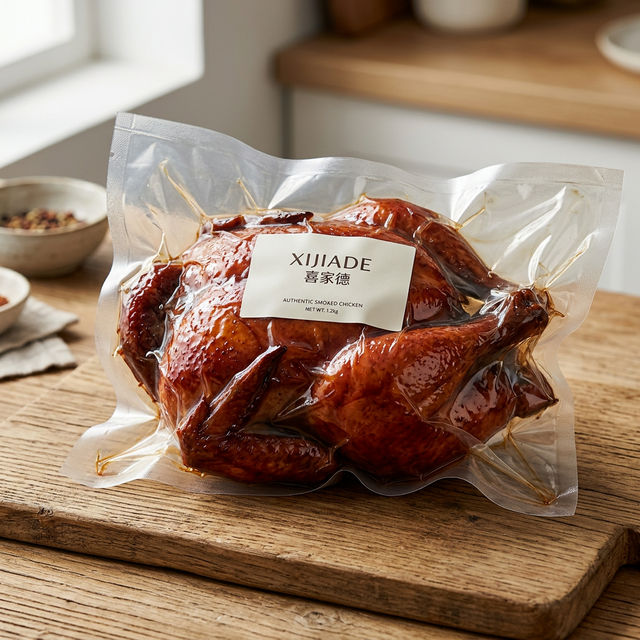
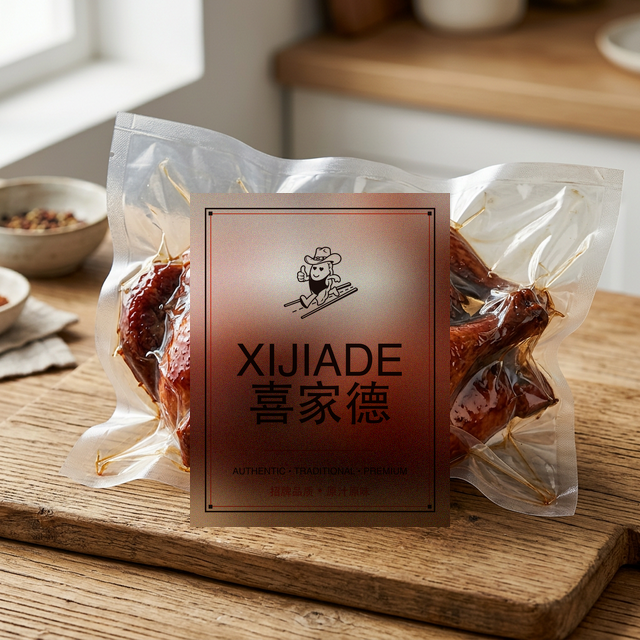
beef

Changed region(s): [[0.2812, 0.2812, 0.7188, 0.8438]]

diff --git a/index.html b/index.html
@@ -213,6 +213,24 @@
                         <span class="text-white text-xl font-bold uppercase tracking-widest" data-t="gallery-item-7">Signature Dipping Sauce</span>
                     </div>
                 </div>
+                <div class="group relative overflow-hidden rounded-xl aspect-[4/3] border-2 border-slate-900 shadow-lg">
+                    <img src="product_pig_trotters.png" class="w-full h-full object-cover transition-transform duration-700 group-hover:scale-110">
+                    <div class="absolute inset-0 bg-gradient-to-t from-black/80 via-transparent to-transparent opacity-0 group-hover:opacity-100 transition-opacity duration-500 flex items-end p-6">
+                        <span class="text-white text-xl font-bold uppercase tracking-widest" data-t="gallery-item-8">Braised Pig Trotters</span>
+                    </div>
+                </div>
+                <div class="group relative overflow-hidden rounded-xl aspect-[4/3] border-2 border-slate-900 shadow-lg">
+                    <img src="product_frozen_buns.png" class="w-full h-full object-cover transition-transform duration-700 group-hover:scale-110">
+                    <div class="absolute inset-0 bg-gradient-to-t from-black/80 via-transparent to-transparent opacity-0 group-hover:opacity-100 transition-opacity duration-500 flex items-end p-6">
+                        <span class="text-white text-xl font-bold uppercase tracking-widest" data-t="gallery-item-9">Frozen Steamed Buns</span>
+                    </div>
+                </div>
+                <div class="group relative overflow-hidden rounded-xl aspect-[4/3] border-2 border-slate-900 shadow-lg">
+                    <img src="product_dumpling_vinegar.png" class="w-full h-full object-cover transition-transform duration-700 group-hover:scale-110">
+                    <div class="absolute inset-0 bg-gradient-to-t from-black/80 via-transparent to-transparent opacity-0 group-hover:opacity-100 transition-opacity duration-500 flex items-end p-6">
+                        <span class="text-white text-xl font-bold uppercase tracking-widest" data-t="gallery-item-10">Dumpling Vinegar</span>
+                    </div>
+                </div>
             </div>
         </div>
     </section>
@@ -293,13 +311,16 @@
                 'item-3-desc': 'Earthy richness for the plant-inclined.',
                 'gallery-title': 'Braised & Preserved',
                 'gallery-desc': 'Our signature braised specialties and hand-crafted pickles, prepared with time-honored techniques.',
-                'gallery-item-1': 'Braised Chicken',
+                'gallery-item-1': 'Xijiade Braised Beef',
                 'gallery-item-2': 'Braised Chicken Feet',
                 'gallery-item-3': 'House Pickles',
-                'gallery-item-4': 'Braised Beef',
+                'gallery-item-4': 'Braised Chicken',
                 'gallery-item-5': 'Spicy Kimchi',
                 'gallery-item-6': 'Specialty Soy & Vinegar',
                 'gallery-item-7': 'Signature Dipping Sauce',
+                'gallery-item-8': 'Braised Pig Trotters',
+                'gallery-item-9': 'Frozen Steamed Buns',
+                'gallery-item-10': 'Dumpling Vinegar',
                 'footer-logo': 'XIJIADE',
                 'footer-inquiries': 'Inquiries',
                 'footer-copyright': '© 2026 XIJIADE',
@@ -345,13 +366,16 @@
                 'item-3-desc': '为素食者准备的大地芬芳，开盒即蒸。',
                 'gallery-title': '卤味 & 泡菜',
                 'gallery-desc': '我们的招牌卤味和手工腌制泡菜，采用传统技艺精心准备，是您餐桌的最佳伴侣。',
-                'gallery-item-1': '真空五香牛肉',
+                'gallery-item-1': '喜家德酱牛肉',
                 'gallery-item-2': '香卤鸡爪',
                 'gallery-item-3': '手工泡菜',
                 'gallery-item-4': '真空整鸡',
                 'gallery-item-5': '真空装韩式泡菜',
                 'gallery-item-6': '饺子酱油醋',
                 'gallery-item-7': '饺子蘸料',
+                'gallery-item-8': '卤猪蹄',
+                'gallery-item-9': '速冻鲜肉包',
+                'gallery-item-10': '饺子醋',
                 'footer-logo': '喜家德',
                 'footer-inquiries': '咨询',
                 'footer-copyright': '© 2026 喜家德.',

diff --git a/coord.html b/coord.html
@@ -1,0 +1,26 @@
+<!DOCTYPE html>
+<html>
+<body style="margin: 0; padding: 0;">
+    <img src="hero_packaged_braised_chicken.png" id="img1" style="width: 640px; height: 640px; display: block;" />
+    <img src="../.gemini/antigravity/brain/8ae195f2-8ec9-4a75-a237-2b6fd6c482f9/gallery_packaged_braised_beef_1773438036876.png" id="img2" style="width: 640px; height: 640px; display: block; margin-top: 20px;" />
+    
+    <div id="result" style="font-size: 30px; font-weight: bold; background: yellow; position: fixed; right: 20px; top: 20px; padding: 10px; border: 2px solid black;">
+        Click on the '嘉' character in both images.
+    </div>
+    
+    <script>
+        let clicks = [];
+        document.getElementById('img1').addEventListener('click', (e) => {
+            clicks.push('Img1[Chicken]: ' + e.offsetX + ',' + e.offsetY);
+            updateResult();
+        });
+        document.getElementById('img2').addEventListener('click', (e) => {
+            clicks.push('Img2[Beef]: ' + e.offsetX + ',' + e.offsetY);
+            updateResult();
+        });
+        function updateResult() {
+            document.getElementById('result').innerText = clicks.join(' | ');
+        }
+    </script>
+</body>
+</html>

diff --git a/patch_labels.py b/patch_labels.py
@@ -1,0 +1,74 @@
+import cv2
+import numpy as np
+from PIL import Image
+import os
+
+def get_label_box(image_path):
+    img = cv2.imread(image_path)
+    if img is None: return None
+    gray = cv2.cvtColor(img, cv2.COLOR_BGR2GRAY)
+    
+    _, thresh = cv2.threshold(gray, 200, 255, cv2.THRESH_BINARY)
+    contours, _ = cv2.findContours(thresh, cv2.RETR_EXTERNAL, cv2.CHAIN_APPROX_SIMPLE)
+    
+    best_box = None
+    max_score = 0
+    center_x = img.shape[1] / 2
+    center_y = img.shape[0] / 2
+    
+    for cnt in contours:
+        x, y, w, h = cv2.boundingRect(cnt)
+        area = w * h
+        if area > (img.shape[0] * img.shape[1]) * 0.05:
+            dist = abs((x + w/2) - center_x) + abs((y + h/2) - center_y)
+            score = area / (dist + 1)
+            if score > max_score:
+                max_score = score
+                best_box = (x, y, w, h)
+    return best_box
+
+def patch(image_path, lockup_path, output_path):
+    box = get_label_box(image_path)
+    if not box:
+        print(f"Failed to find label in {image_path}")
+        return
+    x, y, w, h = box
+    print(f"Patching {image_path} label at {box}")
+    
+    img_cv = cv2.imread(image_path)
+    # Get median color of the label
+    label_roi = img_cv[y:y+h, x:x+w]
+    med = np.median(label_roi, axis=(0,1))
+    bg_color = (int(med[0]), int(med[1]), int(med[2]))
+    
+    # Fill inner part of the label to preserve borders
+    shrink = 25
+    cv2.rectangle(img_cv, (x+shrink, y+shrink), (x+w-shrink, y+h-shrink), bg_color, -1)
+    
+    cv2.imwrite(output_path, img_cv)
+    
+    # Now paste lockup
+    img = Image.open(output_path).convert("RGBA")
+    logo = Image.open(lockup_path).convert("RGBA")
+    
+    target_w = int(w * 0.75)
+    target_h = int(target_w * logo.height / logo.width)
+    if target_h > h * 0.75:
+        target_h = int(h * 0.75)
+        target_w = int(target_h * logo.width / logo.height)
+        
+    paste_x = x + (w - target_w) // 2
+    paste_y = y + (h - target_h) // 2
+    
+    resized_logo = logo.resize((target_w, target_h), Image.Resampling.LANCZOS)
+    img.paste(resized_logo, (paste_x, paste_y), resized_logo)
+    img.convert('RGB').save(output_path, "PNG")
+    print(f"Saved {output_path}")
+
+lockup_path = '/tmp/lockups/lockup_black.png'
+brain_beef = '/Users/alex/.gemini/antigravity/brain/8ae195f2-8ec9-4a75-a237-2b6fd6c482f9/gallery_packaged_braised_beef_1773438036876.png'
+site_beef = '/Users/alex/src/xijiade/gallery_packaged_braised_beef.png'
+site_chicken = '/Users/alex/src/xijiade/hero_packaged_braised_chicken.png'
+
+patch(brain_beef, lockup_path, site_beef)
+patch(site_chicken, lockup_path, site_chicken)
